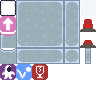
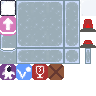
add plain-ol box

Changed region(s): [[0.5, 0.6562, 0.6875, 0.8438]]

diff --git a/assets/tiles.tsx b/assets/tiles.tsx
@@ -133,4 +133,9 @@
    <object id="1" x="0" y="0" width="16" height="16"/>
   </objectgroup>
  </tile>
+ <tile id="27">
+  <objectgroup draworder="index" id="3">
+   <object id="2" x="0" y="0" width="16" height="16"/>
+  </objectgroup>
+ </tile>
 </tileset>
